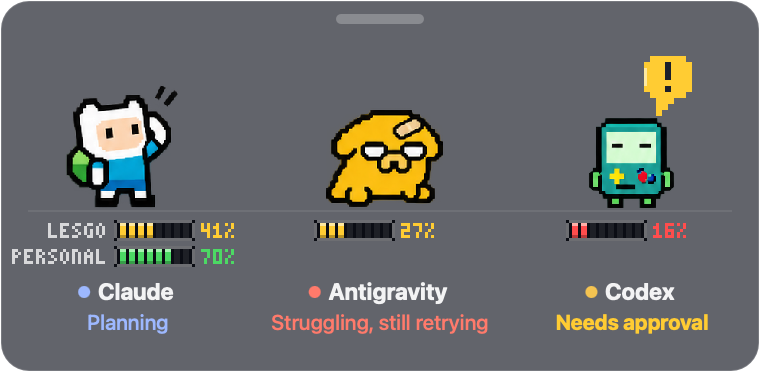
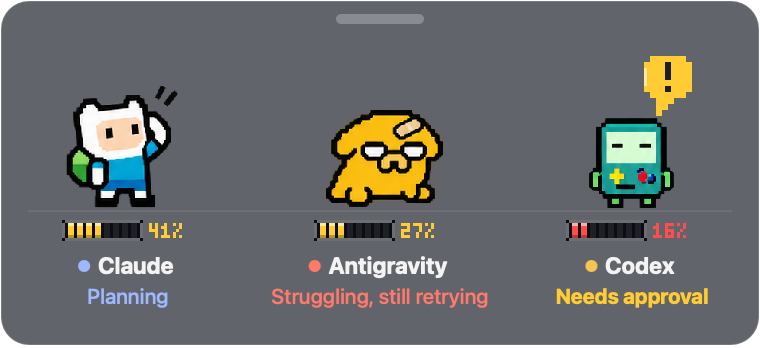
README shows one health bar per buddy; the widget only makes room for a second row when there's a second account

diff --git a/web/scene.js b/web/scene.js
@@ -6,7 +6,7 @@
 
   const W = 380, H = 186, GROUND = 104;
   const BAR_Y = GROUND + 6, ROW_H = 13, U = 1.5;   // health bars sit right under the characters; U = one bar 'pixel'
-  const NAME_Y = GROUND + 46;                       // room for two account rows above the names
+  let NAME_Y = GROUND + 33, CARD_H = H;             // set per frame: names sit below however many account rows there are
   const HEIGHT = { finn: 58, jake: 58, bmo: 46, group: 60, 'ice-king': 66 };
   const ATLAS_FILES = ['finn-core', 'jake-core', 'bmo-core', 'finn-context', 'jake-context', 'bmo-context', 'ice-king', 'group', 'death'];
   const DEATH_STATES = new Set(['die', 'grave', 'poof']);
@@ -186,10 +186,13 @@
   function draw(now, res) {
     ctx.setTransform(1, 0, 0, 1, 0, 0);
     ctx.clearRect(0, 0, canvas.width, canvas.height);
+    const rows = Math.max(1, ...P.map(p => (limits[p] || []).length));
+    NAME_Y = BAR_Y + rows * ROW_H + 14;
+    CARD_H = Math.min(H, NAME_Y + 36);
     ctx.imageSmoothingEnabled = false;
 
     // Glass card so labels read over any wallpaper or window.
-    roundRect(0.5 * dpr, 0.5 * dpr, (W - 1) * dpr, (H - 1) * dpr, 14 * dpr);
+    roundRect(0.5 * dpr, 0.5 * dpr, (W - 1) * dpr, (CARD_H - 1) * dpr, 14 * dpr);
     ctx.fillStyle = 'rgba(17, 20, 30, 0.66)'; ctx.fill();
     ctx.lineWidth = dpr; ctx.strokeStyle = 'rgba(255,255,255,0.14)'; ctx.stroke();
     ctx.fillStyle = 'rgba(255,255,255,0.08)';

diff --git a/README.md b/README.md
@@ -37,14 +37,14 @@ Every buddy also has a little label underneath saying exactly what's going on, s
 Right under each buddy is a little pixel health bar showing how much of that agent's **usage limit** is left. It counts down as you use it, and only fills back up when the limit resets. The bar always shows the tighter of the 5-hour and weekly limits, as a percentage, because that's how Claude, Codex and Antigravity themselves report it.
 
 - 🟩 **Green:** plenty left. 🟨 **Yellow:** under half. 🟥 **Red:** under a fifth. Nearly empty, it blinks.
-- **Two accounts?** If you use two Claude accounts (for example a second one through a `CLAUDE_CONFIG_DIR` alias), Finn gets one bar per account, labelled with the alias name. To rename or reorder them (say, "work" on top), create `~/.agent-companions/accounts.json`:
+- **Two accounts?** Normally each buddy has one bar. If you use two Claude accounts (for example a second one through a `CLAUDE_CONFIG_DIR` alias), Finn gets one bar per account, labelled with the alias name. To rename or reorder them (say, "work" on top), create `~/.agent-companions/accounts.json`:
 
   ```json
   { "claude": [ { "dir": "~/.claude", "name": "work" }, { "dir": "~/.personal", "name": "personal" } ] }
   ```
 - **Out of tokens:** when every account an agent has is used up, its buddy gets tired, collapses, goes *poof*… and a tombstone appears in its place, with a label saying when the limit comes back. As long as one account still has some left, the buddy stays alive. When the limit resets, they pop right back.
 
-![Finn alive on his second account, BMO's tombstone after Codex ran out](docs/5-out-of-tokens.png)
+![Finn and Jake still going, BMO's tombstone after Codex ran out](docs/5-out-of-tokens.png)
 
 ## "Needs you!"
 
